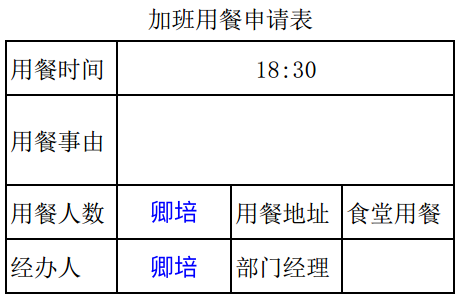
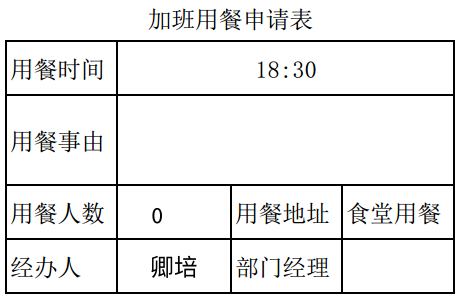
Completed timing function - creating png and send as attachment

Changed region(s): [[0.3011, 0.6492, 0.4215, 0.7377], [0.3011, 0.8262, 0.4215, 0.9148]]

diff --git a/utils/createPng.js b/utils/createPng.js
@@ -2,8 +2,10 @@ const fs = require('fs');
 const path = require('path');
 const Canvas = require('canvas');
 const attachmentPath = path.join(__dirname, '../public/images/test.png');
+const { ids } = require('../global');
+const { sendMail } = require('./sendSansiMail');
 
-function getPng () {
+function getAndSendPng () {
   fs.readFile(path.join(__dirname, '../public/images/form.png'), function (error, data) {
     if (error) {
       throw error;
@@ -13,21 +15,23 @@ function getPng () {
 
       const canvas = new Canvas(img.width, img.height);
       const ctx = canvas.getContext('2d');
+      const size = ids.size;
       ctx.drawImage(img, 0, 0, img.width, img.height);
       ctx.font = '24px Courier New';
       // 设置字体填充颜色
-      ctx.fillStyle = 'blue';
-      ctx.fillText('卿培', 150, 220);
+      ctx.fillStyle = 'black';
+      ctx.fillText(size, 150, 230);
       ctx.fillText('卿培', 150, 275);
       const dataUrl = canvas.toDataURL();
       const writeData = canvas.toBuffer();
       fs.writeFile(attachmentPath, writeData, error => {
         if (error) {
           return console.log(error);
+        } else {
+          return sendMail();
         }
       });
     }
   });
 }
-getPng();
-// module.exports = getPng;
+exports.getAndSendPng = getAndSendPng;

diff --git a/mongo/index.js b/mongo/index.js
@@ -1,25 +1,27 @@
 const Ids = require('./schema');
 const { encode, decode } = require('../utils/transform');
+
 // 增加 / 修改 ids
 function $modifyIds (ids) {
   const today = new Date();
   const createTime = `${today.getFullYear()}-${today.getMonth()}-${today.getDay()}`;
-  // const idsModel = new Ids();
-  // idsModel.ids = ids;
-  // idsModel.createTime = createTime;
-  Ids.findOneAndUpdate({ createTime: createTime }, { ids: encode(ids), createTime: createTime }, { upsert: true, new: true }).then(_response => {
+  return Ids.findOneAndUpdate({ createTime: createTime }, { ids: encode(ids), createTime: createTime }, { upsert: true, new: true }).then(_response => {
     return _response;
   });
 }
 
 // 获取ids
-function $getIds () {
-  return null;
+function $getIds (callback) {
+  const today = new Date();
+  const createTime = `${today.getFullYear()}-${today.getMonth()}-${today.getDay()}`;
+  return Ids.findOne({ createTime: createTime }).exec().then(_title => {
+    return callback(_title);
+  });
 }
 
 // 通过ids获取详细信息
-function $getIdsDetails (ids) {
-  return null;
+function $getIdsDetails (callback) {
+  return callback($getIds(data => { return data; }));
 }
 
 module.exports = { $modifyIds, $getIds, $getIdsDetails };

diff --git a/utils/sendSansiMail.js b/utils/sendSansiMail.js
@@ -3,10 +3,7 @@ const path = require('path');
 
 const attachmentPath = path.join(__dirname, '../public/images/test.png');
 
-nodemailer.createTestAccount((error, account) => {
-  if (error) {
-    return console.log(error);
-  }
+function sendMail () {
   // create reusable transporter object using the default SMTP transport
   const transporter = nodemailer.createTransport({
     host: 'mail.sansi.com',
@@ -40,5 +37,6 @@ nodemailer.createTestAccount((error, account) => {
     // Preview only available when sending through an Ethereal account
     console.log('Preview URL: %s', nodemailer.getTestMessageUrl(info));
   });
-})
-;
+}
+
+exports.sendMail = sendMail;

diff --git a/routes/userlist.js b/routes/userlist.js
@@ -1,13 +1,11 @@
 const express = require('express');
 const router = express.Router();
 const { ids } = require('../global');
-// router.get('/', (request, response) => {
-//   return response.json({ code: 0, payload: 'HAHA' });
-// });
+const { $getIdsDetails } = require('../mongo/index');
 
 router.get('/', (request, response) => {
   // do something
-  response.json({ code: 0, payload: 'HAHA' });
+  return $getIdsDetails(data => { response.json({ code: 0, payload: data }); });
 });
 
 module.exports = router;

diff --git a/utils/timing.js b/utils/timing.js
@@ -1,9 +1,10 @@
 const schedule = require('node-schedule');
-
+const { getAndSendPng } = require('./createPng');
 // 定时器
 function timing () {
-  schedule.scheduleJob('42 * * * * *', function () {
-    console.log('The answer to life, the universe, and everything!');
+  schedule.scheduleJob('40 * * * * *', function () {
+    return getAndSendPng();
+    // console.log('The answer to life, the universe, and everything!');
   });
 }
 
